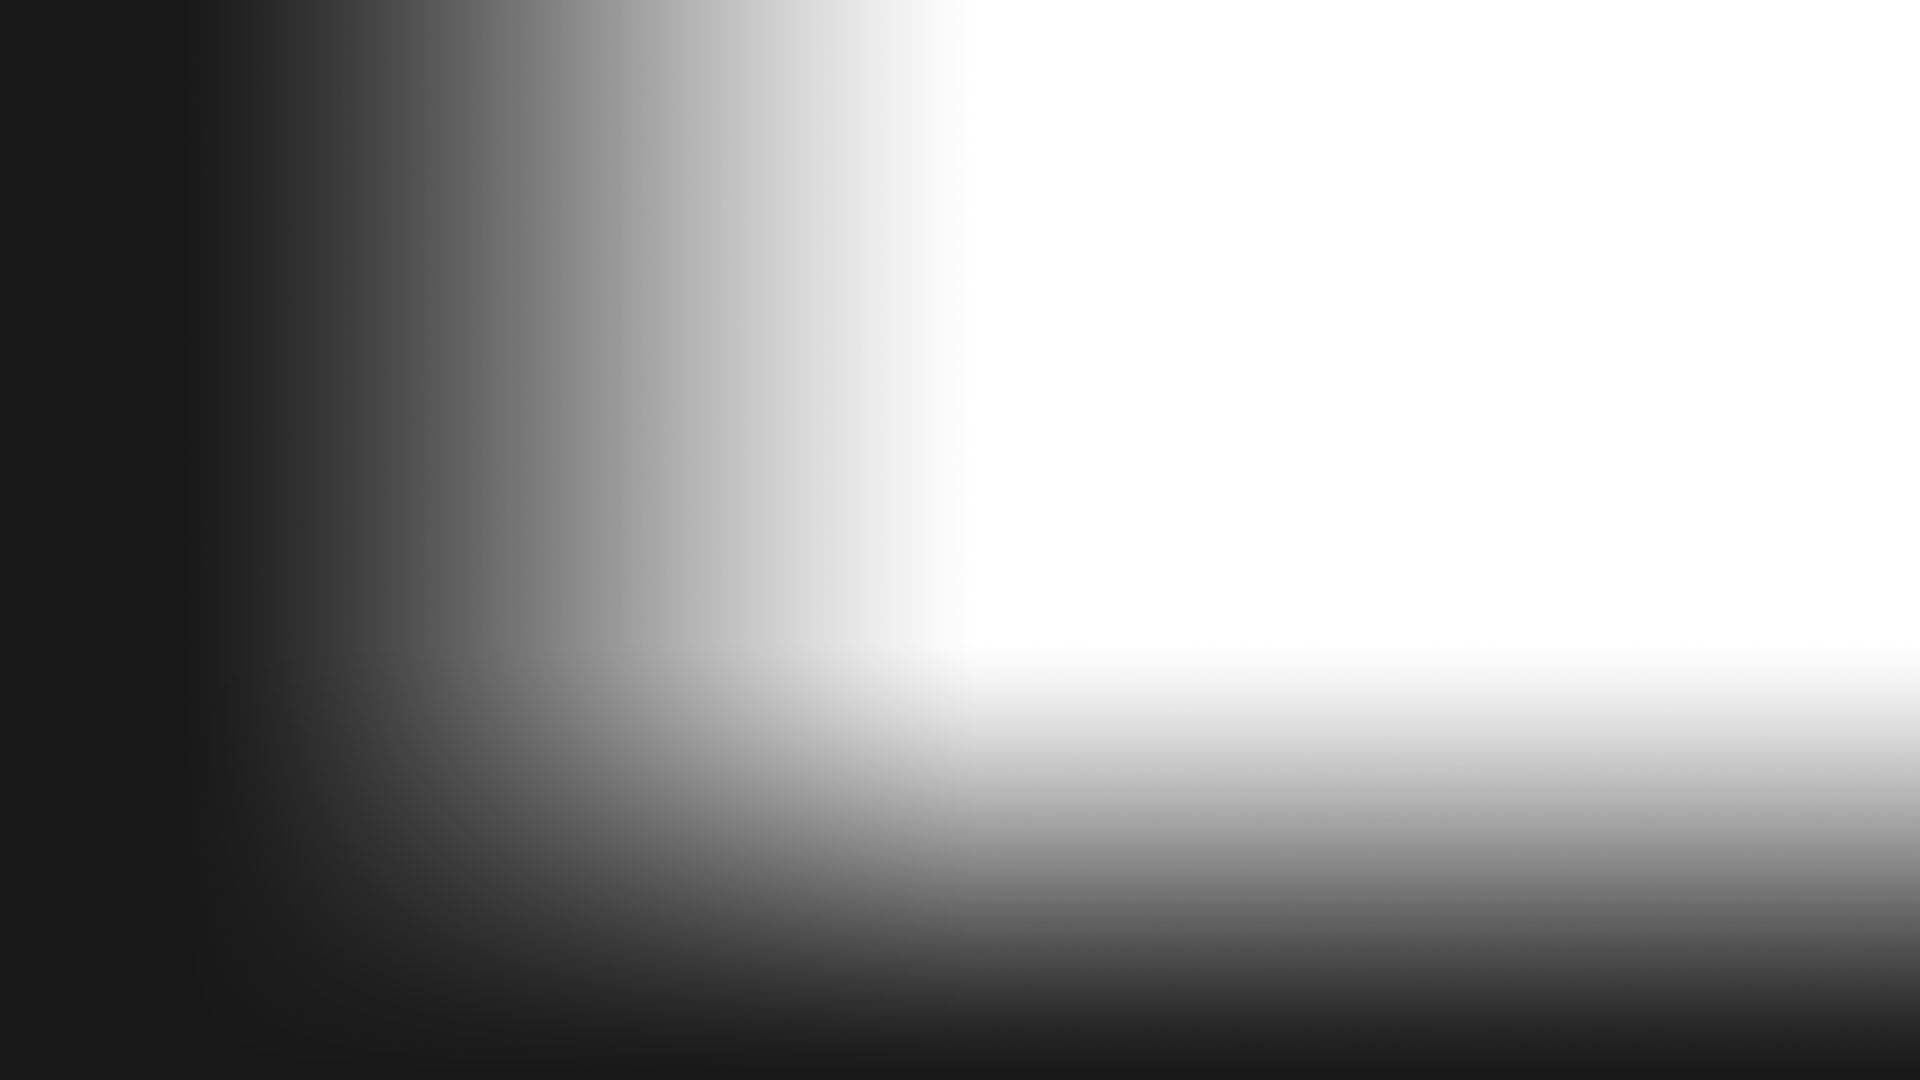
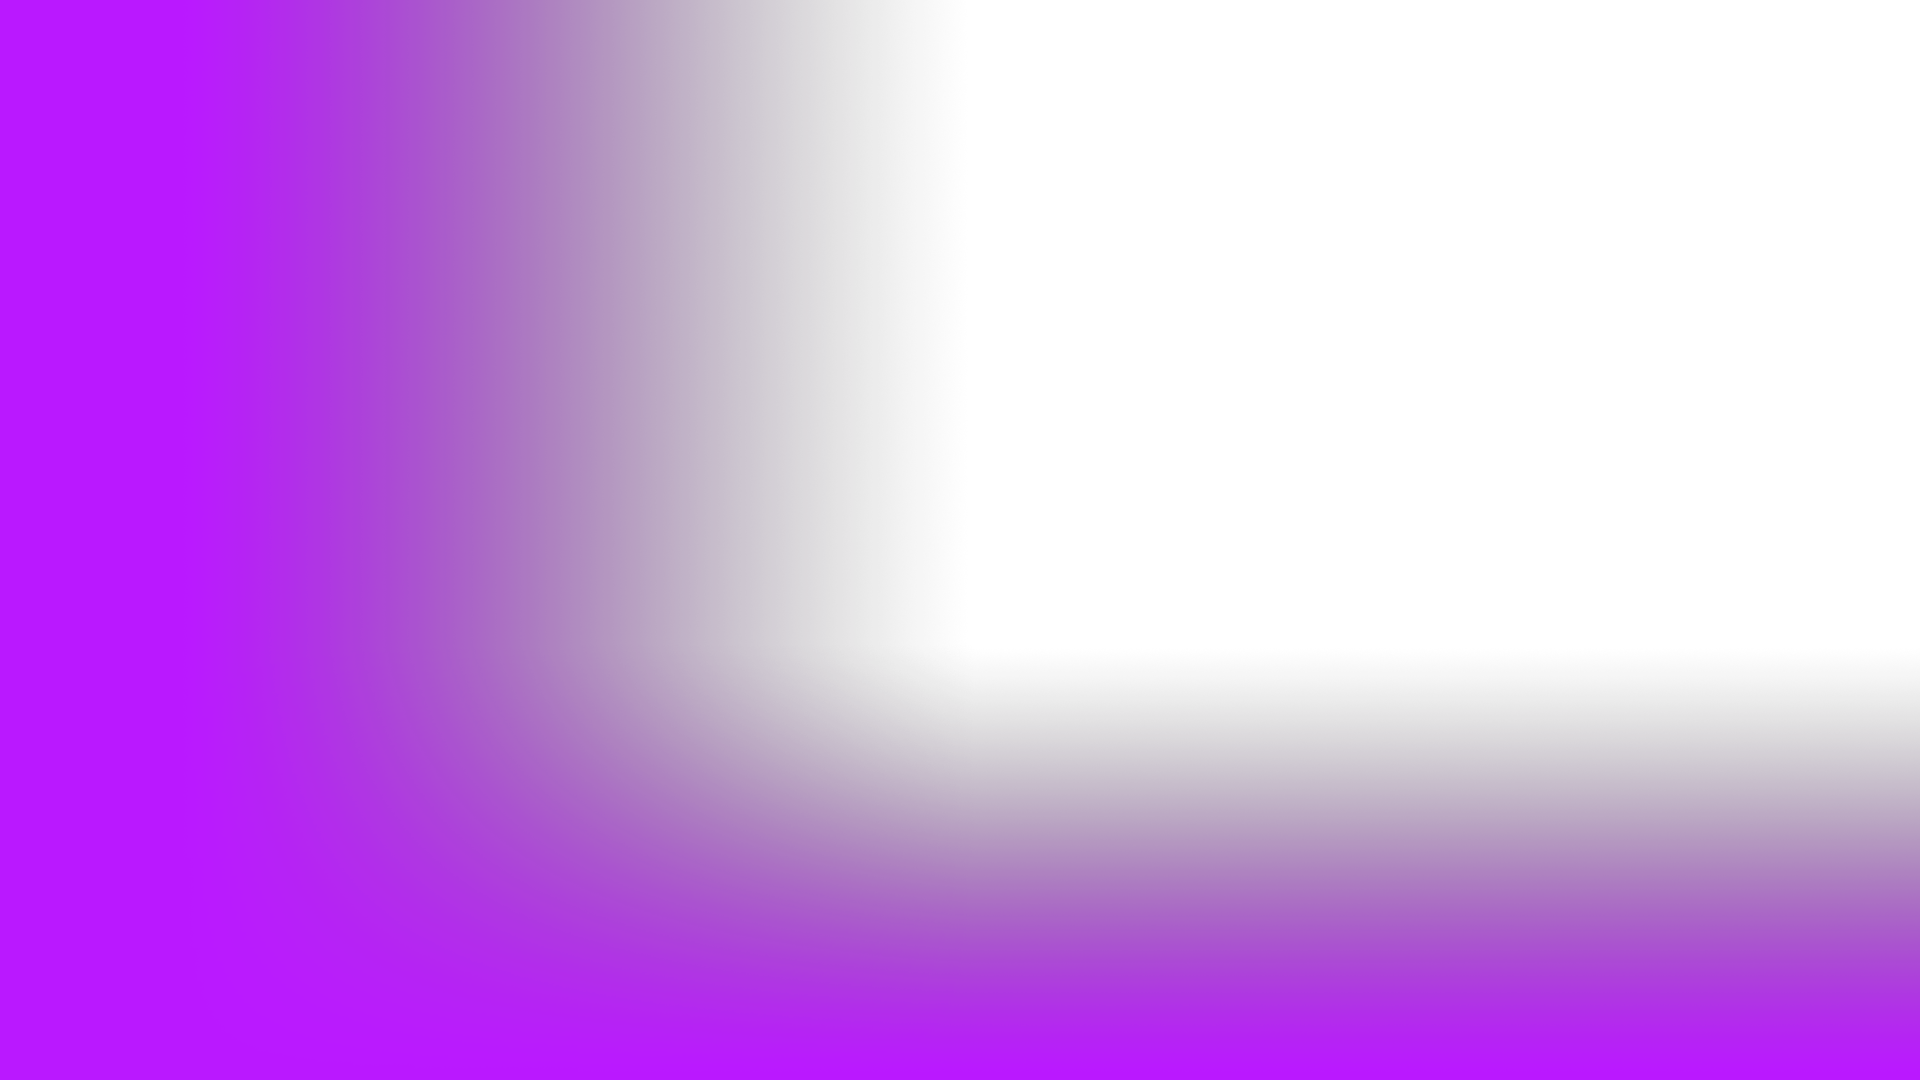
ajuste de screenshots e assets

diff --git a/README.md b/README.md
@@ -6,35 +6,61 @@
 
 # Infinity
 
-Repositório dedicado aos arquivos do projeto Infity, uma versão customizada do tema [Finity](https://github.com/prism2001/finity).
+Tema customizado para Jellyfin, baseado no [Finity](https://github.com/prism2001/finity) por prism2001.
 
-## Ajustes
+## O que muda em relação ao Finity
 
-- Ajuste na inicialização do cronômetro do slideshow;
-- Correção dos `dots` que marcam a quantidade de itens no slideshow;
-- Correção na transparência nas páginas de filmes e séries;
-- Imagem de Fundo (Backdrop): 
-  * Alteração das variáveis `--detail-page-backdrop-offset` para 0 e `--detail-page-backdrop-width` para 100vw. Isso faz com que a imagem ocupe toda a largura da tela, eliminando a  barra preta na esquerda.
-  * Substituí o desfoque por um gradiente escuro sólido `(rgba(0,0,0,0.8)` na esquerda sumindo até transparente na direita. Isso garante que o texto continue legível sobre a imagem.
-- Painel de Texto:
-  * Ajuste da máscara lateral `(.backgroundContainer.withBackdrop)` para cobrir a área onde os textos ficam (definida em 70vw).
+### 🎨 Tema de cores — Dark Purple
 
+Palheta inteira refeita com roxo `#9400D3` como cor primária:
 
-## Modificações
+- Fundo da página com undertone roxo (`#9400D3`)
+- Cards, header, sidebar e botões com tons de roxo escuro
+- Barra de progresso, hover de listas e scrollbar em roxo
+- Borda de seleção (multi-select) em roxo
+- Checkbox de seleção com fundo roxo e checkmark branco
+- Hover de botões com roxo transparente (não mais preto sólido)
+- Botão Play com fade roxo no hover
+- Gradiente do backdrop do slideshow em tons roxos
 
-- Aumento na quantidade de itens no slideshow (de 8 para 16);
-- Alteração da fonte para a Kodchasan;
-- Slideshow clicável (clicar em um item do slideshow direciona para a página do item na biblioteca);
-- A página de séries agora exibe as temporadas em um slide, ocupando a maior parte da tela (lateralmente). O slide é navegável pelas setas do teclado, ou através de touch em monitores/telas compatíveis. 
-- A página das temporadas agora exibe os episódios em um grid que ocupa 94% da área da tela (lateralmente), assim mais episódios são exibidos por linha.
+### 🖱 Feedback visual de hover e foco
+
+- Borda roxa ao redor do card no hover do mouse
+- Borda roxa ao navegar com controle remoto/teclado (`.focused`)
+- List items ganham outline roxo sutil + fundo no hover
+
+### 📐 Layout e páginas de detalhes
+
+- Backdrop ocupa 100% da largura (`--detail-page-backdrop-width: 100vw`, offset 0)
+- Máscara lateral com gradiente escuro sólido (sem blur) para legibilidade do texto
+- Máscara cobre a área de texto (60vw)
+- Temporadas em slider horizontal ocupando 94% da tela
+- Episódios em grid com 94% de largura, navegável por setas e touch
+- Fonte alterada para **Kodchasan**
+
+### 🎬 Slideshow
+
+- 16 itens (original: 8)
+- Slides clicáveis — direcionam para a página do item
+- Títulos de episódios clicáveis no grid view
+- Intervalo sincronizado com a animação Ken Burns (10s)
+- `will-change` em elementos animados para GPU acceleration
+- Correção dos dots indicadores de posição
+- Correção na inicialização do cronômetro
+
+### 🧹 Limpeza da UI
+
+- Controle de exibição via variáveis CSS (tomato rating, age rating, IMDb logo, star rating, critic rating, trailer tab, header warning)
+- Container de seleção de vídeo oculto
+- Títulos originais configuráveis
 
 ## Instalação
 
 ### 1. Index.html
 
-Cole os scripts e o CSS do slideshow no final do `<head>` do `index.html` do Jellyfin (antes de `</head>`):
+Cole no final do `<head>` do `index.html` do Jellyfin (antes de `</head>`):
 
-```
+```html
 <script src="https://cdn.jsdelivr.net/npm/marked@15.0.11/marked.min.js"></script>
 <script src="https://cdn.jsdelivr.net/npm/dompurify@3.2.5/dist/purify.min.js"></script>
 <link rel="stylesheet" href="https://cdn.jsdelivr.net/gh/iHumberto/infinity@main/css/slideshowpure.css">
@@ -45,51 +71,52 @@ Cole os scripts e o CSS do slideshow no final do `<head>` do `index.html` do Jel
 
 ### 2. CSS Customizado (Branding)
 
-No painel do Jellyfin, vá em **Configurações > Geral > Branding/Marca** e cole no campo **CSS Customizado**:
+No Jellyfin, vá em **Configurações > Geral > Branding/Marca** e cole no campo **CSS Customizado**:
 
-```
+```css
 @import url('https://cdn.jsdelivr.net/gh/iHumberto/infinity@main/css/finity-complete.css');
 ```
 
-> **Nota:** O `finity-complete.css` deve ser carregado via campo de CSS customizado do Jellyfin, e NÃO no `index.html`. Isso garante que as regras de estilo sejam aplicadas corretamente sobre os elementos renderizados pelo React.
+> **Importante:** O `finity-complete.css` deve ser carregado via campo de CSS customizado do Jellyfin, **não** no `index.html`. Isso garante que as regras de estilo sejam aplicadas sobre os elementos renderizados pelo React.
 
-Você também precisará criar um arquivo `list.txt` no _*mesmo diretório*_ do `index.html` e popular este arquivo inserindo _*apenas*_ os IDs das mídias que deseja no slideshow.
+### 3. Arquivo list.txt
 
-<img src="screenshots/Screenshot_06.png"    title="URL media id" width="auto"/>
+Crie um arquivo `list.txt` no mesmo diretório do `index.html` com os IDs das mídias do slideshow (um por linha, máximo 16):
 
 ```
-Arquivo1id
-Arquivo2id
-.
-.
-.
-Arquivo16id
+ID_DO_FILME_1
+ID_DO_FILME_2
+...
+ID_DO_FILME_16
 ```
 
-Se quiser automatizar esse processo e manter o slideshow sempre atualizado com as mídias mais recentes, você pode usar o [Script Runner](https://github.com/iHumberto/jellyfin-plugin-scriptrunner) e criar um script customizado que busque as mídias mais recentes e atualize o arquivo com os ids. 
+<img src="screenshots/Screenshot_06.png" title="URL media id" width="auto"/>
 
-## Dica
+Para automatizar, use o [Script Runner](https://github.com/iHumberto/jellyfin-plugin-scriptrunner) com um script que busque as mídias mais recentes.
 
-Se voce usa o docker vale a pena criar uma pasta `custom` no mesmo diretório do seu `docker-compose.yaml` e colocar dentro dessa pasta o `index.html` modificado e o arquivo `list.txt`. Depois basta referenciar esses arquivos para dentro do seu container docker
+## Dica — Docker
 
-<img src="screenshots/Screenshot_07.png"    title="Directory tip" width="auto"/>
+Crie uma pasta `custom` junto ao `docker-compose.yaml` e monte os arquivos:
 
 ```
 - ./custom/index.html:/jellyfin/jellyfin-web/index.html
 - ./custom/list.txt:/jellyfin/jellyfin-web/list.txt
 ```
 
+<img src="screenshots/Screenshot_07.png" title="Directory tip" width="auto"/>
+
 ## Screenshots
 
 <div align="center">
 
-<img src="screenshots/Screenshot_01.png"    title="Home - slideshow 01" width="75%"/>
-<img src="screenshots/Screenshot_02.png"    title="Home - slideshow 02" width="75%"/></br>
-<img src="screenshots/Screenshot_03.png"    title="Home - Continue Watching, Next, Recent Movies" width="75%"/>
-<img src="screenshots/Screenshot_04.png"    title="Movie page" width="75%"/></br>
-<img src="screenshots/Screenshot_05.png"    title="New series page, with slide seasons" width="75%"/>
-<img src="screenshots/Screenshot_08.png"    title="New series page, with bigger grid episodes" width="75%"/>
-
+<img src="screenshots/Screenshot_01.png" title="Home - slideshow 01" width="75%"/>
+<img src="screenshots/Screenshot_02.png" title="Home - slideshow 02" width="75%"/></br>
+<img src="screenshots/Screenshot_03.png" title="Home - Continue Watching, Next, Recent Movies" width="75%"/>
+<img src="screenshots/Screenshot_04.png" title="Movie page" width="75%"/></br>
+<img src="screenshots/Screenshot_05.png" title="New series page, with slide seasons" width="75%"/>
+<img src="screenshots/Screenshot_08.png" title="New series page, with bigger grid episodes" width="75%"/>
+<img src="screenshots/Screenshot_09.png" title="New colors" width="75%"/>
+<img src="screenshots/Screenshot_10.png" title="New colors" width="75%"/>
 </div>
 
 
